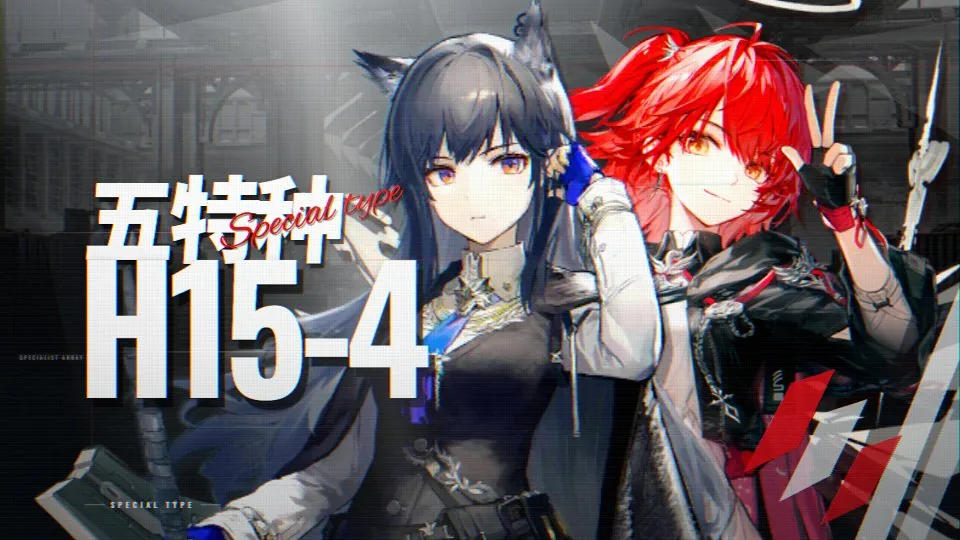
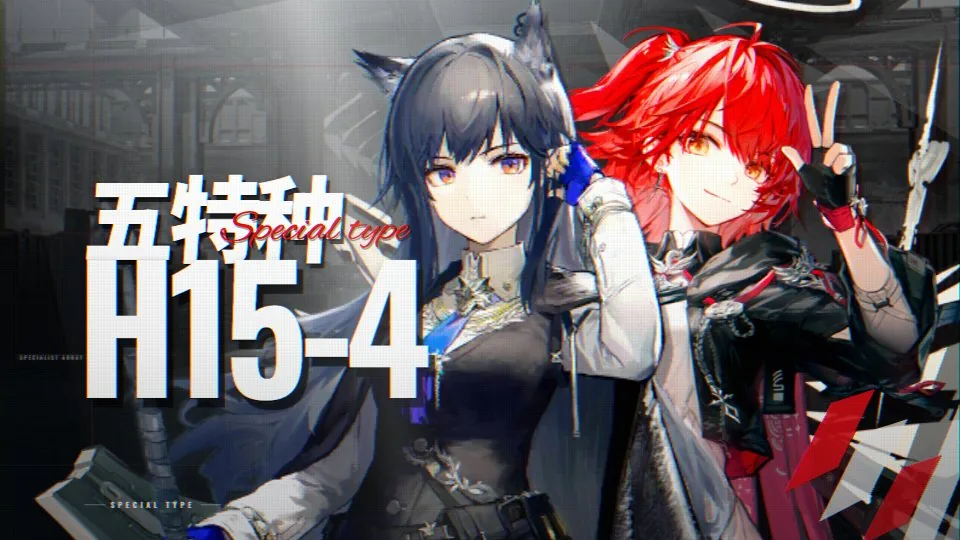
feat(specialist): 右下碎片外移并关掉默认扫描线
WHAT: 把职业队红白碎片挪开，默认关掉扫描线和故障，并刷新预览图
WHY: 碎片压到立绘，扫描线太抢；已有草稿也要对齐新默认
HOW: 种子层与渲染坐标改为 1560,600；defaults 升到 v6 并迁移旧特效；首页缩略图重导出

Changed region(s): [[0.7812, 0.5333, 1.0, 1.0], [0.2188, 0.3259, 0.4375, 0.4741]]

diff --git a/src/lib/storage.ts b/src/lib/storage.ts
@@ -24,7 +24,7 @@ export type PersistedState = {
   defaultsVersion?: number;
 };
 
-const DEFAULTS_VERSION = 5;
+const DEFAULTS_VERSION = 6;
 
 function seedLayers(templateId: TemplateId): Layer[] {
   if (isBuiltinId(templateId)) return getBuiltinLayers(templateId);
@@ -314,9 +314,18 @@ function migrateSpecialistLayout(draft: Draft): Draft {
     if (layer.id === "mark" && layer.kind === "text" && layer.x === 132 && layer.y === 986) {
       return { ...layer, x: 170, y: 992 };
     }
+    if (layer.id === "corner-shards" && layer.x === 1480 && layer.y === 560) {
+      return { ...layer, x: 1560, y: 600 };
+    }
     return layer;
   });
   const styles = { ...(draft.elementStyles ?? {}) };
+  const shards = styles["corner-shards"];
+  if (shards && shards.x === 80 && shards.y === 40) {
+    const { x: _x, y: _y, ...rest } = shards;
+    if (Object.keys(rest).length) styles["corner-shards"] = rest;
+    else delete styles["corner-shards"];
+  }
   const script = styles.script;
   if (script && (script.fontSize == null || script.fontSize >= 180)) {
     const { fontSize: _fontSize, x: _x, y: _y, rotation: _rotation, ...rest } = script;
@@ -389,6 +398,17 @@ function migrateSpecialistLayout(draft: Draft): Draft {
     draft.effects.glitch.amount === 16 &&
     draft.effects.slashes.amount === 8 &&
     draft.effects.vignette.amount === 30;
+  const currentDocumentEffects =
+    draft.effects.light.amount === 40 &&
+    draft.effects.light.x === 30 &&
+    draft.effects.light.y === 0 &&
+    draft.effects.light.rotate === -12 &&
+    draft.effects.scanlines.amount === 24 &&
+    draft.effects.grain.amount === 28 &&
+    draft.effects.chromatic.amount === 4 &&
+    draft.effects.glitch.amount === 16 &&
+    draft.effects.slashes.amount === 8 &&
+    draft.effects.vignette.amount === 30;
   const reference = referenceCoverEffects();
   const shouldMigrateEffects =
     legacyEffects ||
@@ -396,7 +416,8 @@ function migrateSpecialistLayout(draft: Draft): Draft {
     strongReferenceEffects ||
     tunedReferenceEffects ||
     clearColorReferenceEffects ||
-    diagonalReferenceEffects;
+    diagonalReferenceEffects ||
+    currentDocumentEffects;
   const effects = shouldMigrateEffects
     ? {
         ...reference,

diff --git a/src/lib/effects.ts b/src/lib/effects.ts
@@ -71,10 +71,10 @@ export function defaultCoverEffects(skin: CanvasSkin, legacy: LegacyEffects = {}
     },
     artGrade: { ...ART_GRADE },
     bgGrade: { ...BG_GRADE, enabled: specialist },
-    scanlines: amount(specialist, specialist ? 24 : 24),
+    scanlines: amount(false, specialist ? 11 : 24),
     grain: amount(specialist, specialist ? 28 : 24),
     chromatic: amount(specialist, specialist ? 4 : 12),
-    glitch: amount(specialist, specialist ? 16 : 24),
+    glitch: amount(false, specialist ? 16 : 24),
     slashes: amount(false, specialist ? 8 : 20),
     vignette: amount(legacy.bgDim ?? specialist, legacy.bgDimAmount ?? (specialist ? 30 : 48)),
   };

diff --git a/src/data/seeds/specialist.ts b/src/data/seeds/specialist.ts
@@ -122,8 +122,8 @@ export const specialistLayers: Layer[] = [
   boxLayer({
     id: "corner-shards",
     label: "红白碎片",
-    x: 1480,
-    y: 560,
+    x: 1560,
+    y: 600,
     w: 440,
     h: 520,
     fill: "transparent",
